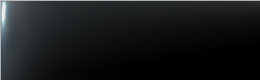
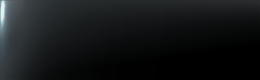
- Main window is now freely resizable, while keeping   all the buttons stretched to the same aspect ratio.   (EXPERIMENTAL)

Changed region(s): [[0.0, 0.0, 1.0, 1.0]]

diff --git a/src/qjackctlMainForm.cpp b/src/qjackctlMainForm.cpp
@@ -1251,6 +1251,14 @@ void qjackctlMainForm::closeEvent ( QCloseEvent *pCloseEvent )
 }
 
 
+void qjackctlMainForm::resizeEvent ( QResizeEvent *pResizeEvent )
+{
+	updateDisplayEffect();
+
+	QWidget::resizeEvent(pResizeEvent);
+}
+
+
 void qjackctlMainForm::customEvent ( QEvent *pEvent )
 {
 	switch (int(pEvent->type())) {
@@ -2211,8 +2219,10 @@ void qjackctlMainForm::updateDisplayEffect (void)
 	// Set the main background...
 	QPalette pal;
 	if (m_pSetup->bDisplayEffect) {
-		QPixmap pm(":/images/displaybg1.png");
-		pal.setBrush(QPalette::Window, QBrush(pm));
+		const QImage img(":/images/displaybg1.png");
+		pal.setBrush(QPalette::Window,
+			QBrush(img.scaled(m_ui.StatusDisplayFrame->size(),
+				Qt::IgnoreAspectRatio, Qt::SmoothTransformation)));
 	} else {
 		pal.setColor(QPalette::Window, Qt::black);
 	}
@@ -2340,7 +2350,7 @@ void qjackctlMainForm::updateButtons (void)
 	m_ui.SetupToolButton->setToolButtonStyle(toolButtonStyle);
 	m_ui.AboutToolButton->setToolButtonStyle(toolButtonStyle);
 
-#if 0// Main-window fixed size (pre-adjust)
+#if 0// Main-window fixed size (pre-adjustment...)
 	const bool bVisible = isVisible();
 	if (bVisible)
 		hide();
@@ -2350,16 +2360,10 @@ void qjackctlMainForm::updateButtons (void)
 
 	adjustSize();
 
-#if 0// Main-window fixed size (post-adjust)
+#if 0// Main-window fixed size (post-adjustmment...)
 	setFixedSize(size());
 	if (bVisible)
 		show();
-#else
-#if defined(__WIN32__) || defined(_WIN32) || defined(WIN32) || defined(__APPLE__)
-	// Resizing main-window height might look ugly
-	// and is not that really useful, anyway...
-	setFixedHeight(height());
-#endif
 #endif
 }
 

diff --git a/src/qjackctlMainForm.h b/src/qjackctlMainForm.h
@@ -212,6 +212,7 @@ protected:
 	void showEvent(QShowEvent *pShowEvent);
 	void hideEvent(QHideEvent *pHideEvent);
 	void closeEvent(QCloseEvent *pCloseEvent);
+	void resizeEvent(QResizeEvent *pResizeEvent);
 	void customEvent(QEvent *pEvent);
 
 	void appendStdoutBuffer(const QString& s);
